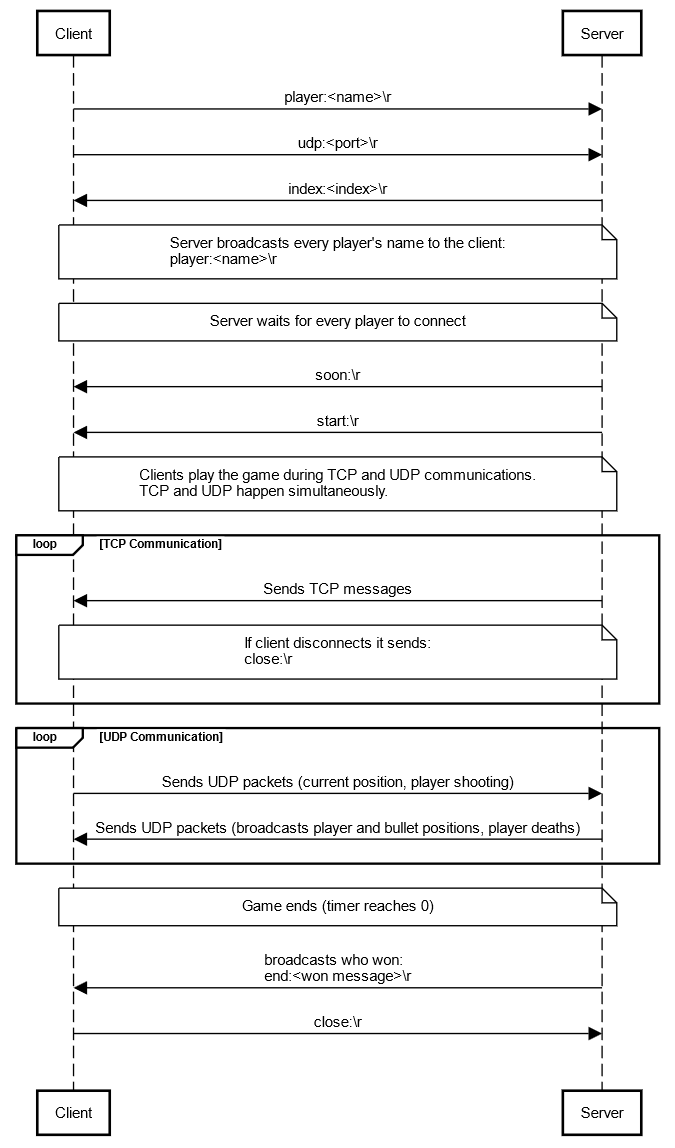
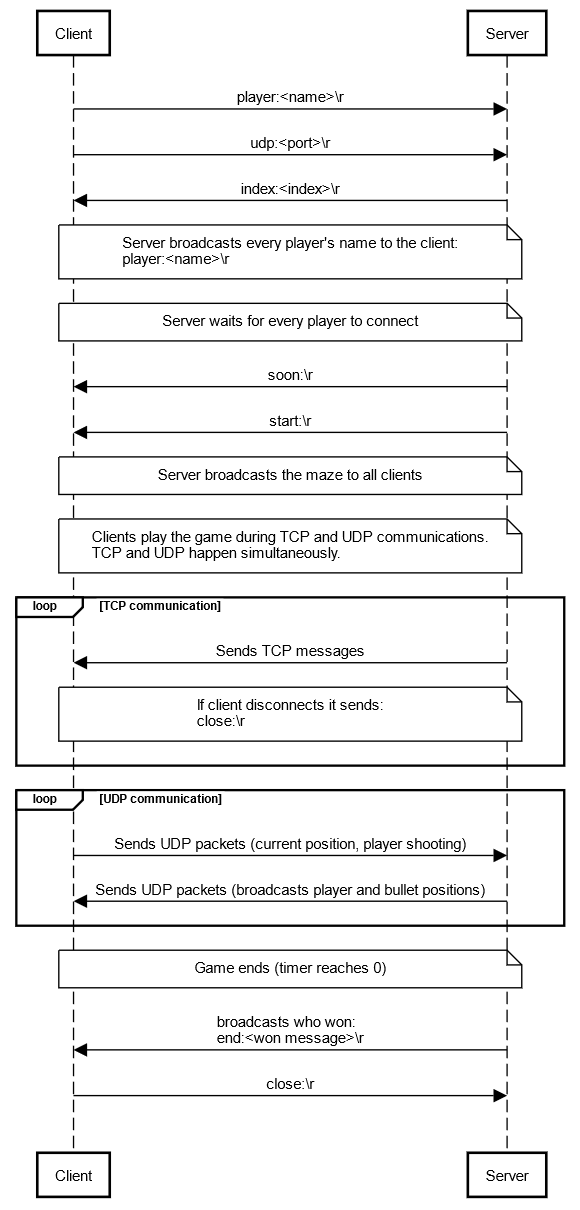
updated README

Changed region(s): [[0.0, 0.0, 0.9931, 1.0], [0.0621, 0.5488, 0.0931, 0.5793]]

diff --git a/README.md b/README.md
@@ -21,8 +21,8 @@ The game ends after 3 minutes. The player(s) with the most points wins!
 ## Protocol
 
 The game networking is on 2 channels:
- - TCP - For information like player got hit, start game, end game, update timer, and update score.
- - UDP - For information like player movement, shooting, and player respawn.
+ - TCP - For information like player got hit, start game, end game, update timer, update score, and player spawn/respawn.
+ - UDP - For information like player movement and shooting.
 
 The server opens a thread for each connection and receives TCP messages from each client on its thread.
 
@@ -39,13 +39,14 @@ TCP messages are in the form of `key:value\r` (`\r` is Carriage Return).
  - `close`: This message is sent from the client to the server when the client leaves the game, and it contains no value. For example: `close:\r`.
  - `hit`: This message is sent from the server to the client that got hit, and it contains no value. For example: `hit:\r`.
  - `score`: This message is sent from the server to the client when they eliminated another player, and its value is how many points the player receives. For example: `score:100\r`.
+ - `init`: This message is sent from the server to the client when a player spawns/respawns. Its value is the player's index, x coord, and y coord, seperated by spaces. For example: `init:1 4.5 6.5\r`.
  - `exit`: This message is sent from the server to all clients when a player disconnects, the value is the disconnected player's index. For example: `exit:2\r`.
  - `end`: This message is sent from the server to all clients when the game ends, and its value is a string that says who won. For example: `end:yoyo won!\r`.
 
 ### UDP Protocol
 
 UDP packets are in binary form, and are represented by the struct `protocol::Packet`. `Packet` has 4 fields, although different types of packets don't use all of them:
- - `type`: An enum (1 byte) that contains the type of the packet: `NO_PACKET`, `INIT_PLAYER`, `UPDATE_PLAYER`, `UPDATE_BULLET`, `CLEAR_BULLETS`.
+ - `type`: An enum (1 byte) that contains the type of the packet: `NO_PACKET`, `UPDATE_PLAYER`, `UPDATE_BULLET`, `CLEAR_BULLETS`.
  - `index`: An integer (4 bytes) that contains the index of the player/bullet.
  - `position`: A Vector2f (two floats - 8 bytes) that contains the position of the player/bullet.
  - `direction`: A float (4 bytes) that contains the direction of the bullet.
@@ -53,7 +54,6 @@ UDP packets are in binary form, and are represented by the struct `protocol::Pac
 #### Types of packets:
 
  - `NO_PACKET`: No packet was sent, happens when the socket has no packets to receive.
- - `INIT_PLAYER`: Sent from server to clients when the game starts or when a player respawns. `index` is the player's index, `position` is the player's position, and `direction` is ignored.
  - `UPDATE_PLAYER`: Sent from clients to the server 30 times per second. `index` is the player's index, `position` is the player's position, and `direction` is ignored.
  - `UPDATE_BULLET`: Sent from clients to the server when the client shoots, and from the server to the clients to update all bullets. `position` is the bullet's position. When sent from the client, `index` is the shooting player's index, and `direction` is the direction of the bullet. When sent from the server, `index` is the bullet's index, and `direction` is ignored.
  - `CLEAR_BULLETS`: Sent from the server to the client before sending the updated bullets information. `index`, `position` and `direction` are ignored.
